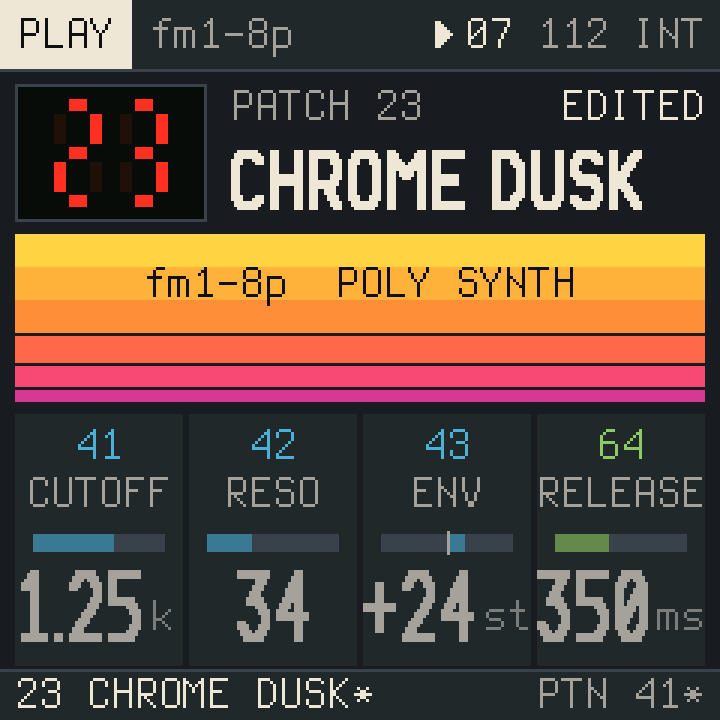
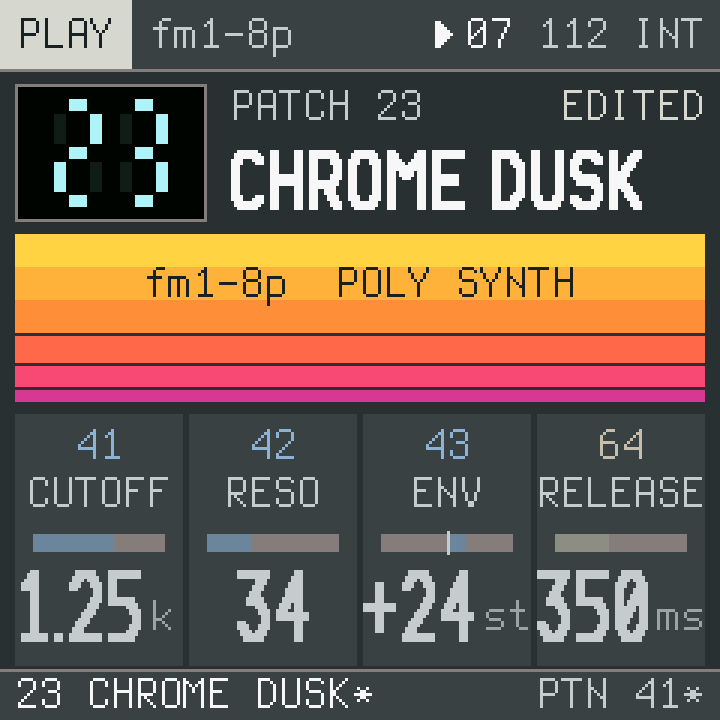
ui: Membrane in the JX-8P's own colors (#47) (#211)
* ui: Membrane in the JX-8P's and PG-800's own colors (Refs #47)

Eric: "Let's use the real colors in the membrane theme", and "not brown":
the screen is the body's neutral charcoal gray, the text the off-white
lettering, and the sections the panel buttons' colors (red COPY/WRITE,
amber KEY MODE and AFTER TOUCH, cream TONE, gray EDIT, sky blue PATCH
CHAIN/MIDI, the script's orange), white-balanced from a photo. Layout,
chip, badge and meter are as they were. Every color meets visual.md's
contrast rules; Membrane's text and dim minimums rise to 10.5 and 6.0.
visual.md, render.py and the mockups follow.

Assisted-by: Claude Code:claude-opus-5-5

* ui: Membrane from the JX-8P panel render: strip gray screen, body gray rules (Refs #47)

Eric's better reference, a clean render of the panel, replaces the photo:
the body is a mid gray and the dark part is the button strip. The body
gray is too light to put text on, so the screen is the strip's gray and
the body's gray draws rules, frames and unlit meters. The LED window is
the display's pale cyan. Sections keep the buttons' colors, lightened only
as far as the contrast rules need. Membrane's minimums are now text 8.5:1
and dim 5.6:1 (WCAG AAA is 7:1), down from 10.2 for text on the lighter
surfaces.

Assisted-by: Claude Code:claude-opus-5-5

diff --git a/docs/ui/mockups/render.py b/docs/ui/mockups/render.py
@@ -384,9 +384,10 @@ class Screen:
 THEMES = {
     "membrane": dict(
         name="MEMBRANE",
-        bg="#1B1D20", surface="#26292D", surface_hi="#30343A", line="#3C4148", text="#ECE6D6",
-        dim="#A6A298", ink="#121314", window="#0C0D0E",
-        led="#FF3020",              # one red for every LED window
+        # the JX-8P's colors: the button strip's dark gray (screen), the body's mid gray (rules), lettering
+        bg="#2E3135", surface="#3E4145", surface_hi="#46494E", line="#837E7A", text="#F6F5F0",
+        dim="#C6C8CA", ink="#1E2023", window="#050506",
+        led="#A8F0F4",              # one pale cyan for every LED window (the JX-8P's display)
         ghost=0.10,                 # unlit segments: this much of the LED color in the window
         header="chip",              # section name on a chip of its color
         meter_segments=0,           # 0: one continuous bar
@@ -394,12 +395,14 @@ THEMES = {
         focus=(1.0, 1.0),           # frames inward from the edge, as mixes of bg -> accent
         hatch=0.0,                  # fill under graph curves (0: none)
         art="badge",                # what fills the graph slot on PLAY
-        playhead="#ECE6D6", cursor="#FF3020", tie_mix=0.45,
-        black_key="#121314",        # the key strip's black keys
+        playhead="#F6F5F0", cursor="#DC9C9E", tie_mix=0.45,
+        black_key="#1E2023",        # the key strip's black keys
         index=0, short="MEMB",      # THEME's value: its index, and its label in a 56 px column
-        sec={"DCO-1": "#E8823A", "DCO-2": "#E8B83A", "MIX": "#C8C0A8", "VCF": "#4FB0D0", "VCF ENV": "#D86A98",
-             "VCA": "#88C860", "LFO": "#9A88E0", "CTRL": "#50C8B8", "SEQ": "#F86A6A", "GLO": "#C8C0A8",
-             "PLAY": "#ECE6D6"},
+        # the buttons: red (top left, COPY/WRITE), amber (KEY MODE, AFTER TOUCH), cream-gray (TONE),
+        # light gray (EDIT), blue (PATCH CHAIN), lightened to meet the contrast rules
+        sec={"DCO-1": "#DC9C9E", "DCO-2": "#D8AC5F", "MIX": "#CDCAC4", "VCF": "#8DB0D6", "VCF ENV": "#E5B6B7",
+             "VCA": "#C2BCAE", "LFO": "#B0C8E2", "CTRL": "#CCA869", "SEQ": "#DC9C9E", "GLO": "#AAB0AC",
+             "PLAY": "#D6D5CE"},
         sun=["#FFD040", "#FFB038", "#FF8C38", "#FF6848", "#F04870", "#D03890"], grid=None, horizon=None,
     ),
     "night-panel": dict(

diff --git a/firmware/ui_map.c b/firmware/ui_map.c
@@ -4,9 +4,13 @@
 
 /* visual.md: Membrane */
 const ui_theme UI_MEMBRANE = {
-    .bg = 0x18E4u, .surface = 0x2145u, .surface_hi = 0x31A7u, .line = 0x3A09u, .text = 0xEF3Au,
-    .dim = 0xA513u, .ink = 0x1082u, .window = 0x0861u, .led = 0xF984u,
-    .section = {0xEC07u, 0xEDC7u, 0xCE15u, 0x4D9Au, 0xDB53u, 0x8E4Cu, 0x9C5Cu, 0x5657u, 0xFB4Du, 0xCE15u, 0xEF3Au},
+    /* the JX-8P's own colors (Eric, 2026-11-14, from a render of its panel): the button strip's dark
+     * gray for the screen, the body's mid gray for rules and frames, the lettering for text, the LED
+     * display's pale cyan, and the buttons' red, amber, cream, gray and blue as the sections, lightened
+     * only as far as the contrast rules need (the body gray is too light to put text on) */
+    .bg = 0x2986u, .surface = 0x3A08u, .surface_hi = 0x4249u, .line = 0x83EFu, .text = 0xF7BEu,
+    .dim = 0xC659u, .ink = 0x1904u, .window = 0x0020u, .led = 0xAF9Eu,
+    .section = {0xDCF3u, 0xDD6Bu, 0xCE58u, 0x8D9Au, 0xE5B6u, 0xC5F5u, 0xB65Cu, 0xCD4Du, 0xDCF3u, 0xAD95u, 0xD6B9u},
     .ghost = 26u,                       /* 10 % */
     .chip = 1u,
     .meter_segments = 0u,

diff --git a/tests/test_ui.c b/tests/test_ui.c
@@ -1719,7 +1719,7 @@ static double ui_contrast(uint16_t a, uint16_t b)
 TT_TEST(ui_themes_meet_their_contrast_rules)
 {
     static const struct { const ui_theme *t; double text, dim; } TH[2] = {
-        {&UI_MEMBRANE, 10.2, 4.9}, {&UI_NIGHT_PANEL, 13.9, 5.6},
+        {&UI_MEMBRANE, 8.5, 5.6}, {&UI_NIGHT_PANEL, 13.9, 5.6},
     };
     uint32_t n, i;
     for (n = 0; n < 2u; n++) {

diff --git a/docs/ui/visual.md b/docs/ui/visual.md
@@ -114,22 +114,22 @@ the two themes:
 
 | key | Membrane | Night Panel | what it changes |
 | --- | --- | --- | --- |
-| `bg` | `18E4` | `0863` | the screen |
-| `surface` | `2145` | `18C5` | columns, footer, cells |
-| `surface_hi` | `31A7` | `2107` | the focus column, legend chips |
-| `line` | `3A09` | `2969` | rules, frames, unlit meter |
-| `text` | `EF3A` cream | `EF7F` | values, focused labels |
-| `dim` | `A513` | `9CB7` | other labels |
-| `ink` | `1082` | `0863` | text on a chip or on the sunset |
-| `window` | `0861` | `0021` | LED and graph windows |
-| `led` | `F984` red | the section color | the 7-segment digits |
+| `bg` | `2986` the button strip | `0863` | the screen |
+| `surface` | `3A08` | `18C5` | columns, footer, cells |
+| `surface_hi` | `4249` | `2107` | the focus column, legend chips |
+| `line` | `83EF` the body | `2969` | rules, frames, unlit meter |
+| `text` | `F7BE` the lettering | `EF7F` | values, focused labels |
+| `dim` | `C659` | `9CB7` | other labels |
+| `ink` | `1904` | `0863` | text on a chip or on the sunset |
+| `window` | `0020` | `0021` | LED and graph windows |
+| `led` | `AF9E` pale cyan | the section color | the 7-segment digits |
 | `ghost` | 10 % | 8 % | unlit segments, as this much of the LED color |
 | `header` | `chip` | `band` | the section name on a chip of its color, or in its color under a 3 px band |
 | `meter_segments`, `meter_gap` | 0, 0 (one bar) | 8, 2 (an LED ladder) | the knob meter |
 | `focus` | `(1.0, 1.0)` | `(1.0, 0.45, 0.2)` | frames inward from the focused element's edge, as mixes from `bg` to the accent: a 2 px frame, or a glow |
 | `hatch` | 0 | 16 % | the fill under graph curves |
 | `art` | `badge` | `sun` | the PLAY slot: six sunset bands with the device name, or the striped sun over a perspective grid |
-| `playhead`, `cursor` | `EF3A`, `F984` | `2EDF`, `EF7F` | the SEQ playhead and step cursor |
+| `playhead`, `cursor` | `F7BE`, `DCF3` | `2EDF`, `EF7F` | the SEQ playhead and step cursor |
 | `sun` | `FE88 FD87 FC67 FB49 F24E D1D2` | `FEC9 FD88 FC48 FAEC F1F2 C198` | the sunset bands (PLAY only) |
 | `grid`, `horizon` | none | `5953`, `F9FB` | the perspective grid (PLAY only) |
 
@@ -137,26 +137,33 @@ All values are RGB565, which is what `HB_RGB()` produces.
 
 ### Section colors
 
+Membrane takes the JX-8P's own colors (Eric, 2026-11-14, from a render of its panel). The screen
+is the button strip's dark gray. The body's mid gray is too light to put text on, so it draws the
+rules, frames and unlit meters. Text is the lettering, the LED window the display's pale cyan, and
+the sections the panel buttons' colors, named below by the button each comes from. The panel has
+five button colors for eight sections, so some repeat on sections far apart, and each is lightened
+only as far as the contrast rules below need (the red most, to a soft red).
+
 | section | Membrane | Night Panel |
 | --- | --- | --- |
-| 1x DCO-1 | `EC07` orange | `FAF4` pink |
-| 2x DCO-2 | `EDC7` amber | `FC47` orange |
-| 3x MIX | `CE15` stone | `DEBE` lilac white |
-| 4x VCF | `4D9A` steel blue | `2EDF` cyan |
-| 5x VCF ENV | `DB53` rose | `FE07` amber |
-| 6x VCA | `8E4C` green | `7F8F` green |
-| 7x LFO | `9C5C` lavender | `B3FF` violet |
-| 8x CTRL | `5657` teal | `3D1F` blue |
-| SEQ | `FB4D` red | `F9FB` magenta |
-| GLO | `CE15` stone | `DEBE` lilac white |
-| PLAY | `EF3A` cream | `F9FB` magenta |
+| 1x DCO-1 | `DCF3` red (COPY/WRITE) | `FAF4` pink |
+| 2x DCO-2 | `DD6B` amber (KEY MODE) | `FC47` orange |
+| 3x MIX | `CE58` cream-gray (TONE) | `DEBE` lilac white |
+| 4x VCF | `8D9A` blue (PATCH CHAIN) | `2EDF` cyan |
+| 5x VCF ENV | `E5B6` pale red | `FE07` amber |
+| 6x VCA | `C5F5` light gray (EDIT) | `7F8F` green |
+| 7x LFO | `B65C` pale blue | `B3FF` violet |
+| 8x CTRL | `CD4D` amber (AFTER TOUCH) | `3D1F` blue |
+| SEQ | `DCF3` red (WRITE) | `F9FB` magenta |
+| GLO | `AD95` gray | `DEBE` lilac white |
+| PLAY | `D6B9` the lettering | `F9FB` magenta |
 
 ### Contrast
 
 All ratios are WCAG ratios, computed on the quantized RGB565 values.
 
-- **Text:** at least 10.2:1 on every surface in Membrane, and 13.9:1 in Night Panel.
-- **Dim labels:** at least 4.9:1 in Membrane and 5.6:1 in Night Panel.
+- **Text:** at least 8.5:1 on every surface in Membrane, and 13.9:1 in Night Panel.
+- **Dim labels:** at least 5.6:1 in Membrane and 5.6:1 in Night Panel.
 - **Section colors:** at least 4.7:1 on `surface` and 4.9:1 on `bg`.
 
 ### Where the layouts differ, and why it stays minimal
